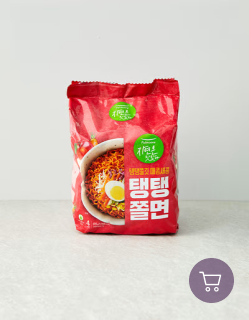
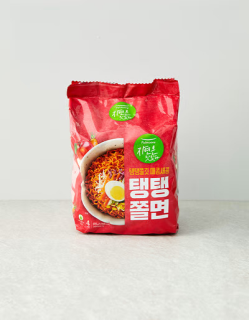
[style] list 페이지 마크업, 스타일 완성

Changed region(s): [[0.759, 0.7812, 0.9558, 0.9688]]

diff --git a/src/components/Accordion.jsx b/src/components/Accordion.jsx
@@ -78,28 +78,40 @@ export const Accordion = () => {
       </ul>
 
       <ul>
-        <div>
-          <h5 className={styles.filterTitle}>브랜드</h5>
+        <div className={styles.filterTitle}>
+          <h5>브랜드</h5>
           <button type="button">
             <img src={dropdown} />
           </button>
         </div>
       </ul>
 
-      <ul>
-        <h5 className={styles.filterTitle}>가격</h5>
+      <ul className={styles.filterTitle}>
+        <h5>가격</h5>
+        <button type="button">
+          <img src={dropdown} />
+        </button>
       </ul>
 
-      <ul>
-        <h5 className={styles.filterTitle}>혜택</h5>
+      <ul className={styles.filterTitle}>
+        <h5>혜택</h5>
+        <button type="button">
+          <img src={dropdown} />
+        </button>
       </ul>
 
-      <ul>
-        <h5 className={styles.filterTitle}>유형</h5>
+      <ul className={styles.filterTitle}>
+        <h5>유형</h5>
+        <button type="button">
+          <img src={dropdown} />
+        </button>
       </ul>
 
-      <ul>
-        <h5 className={styles.filterTitle}>특정상품 제외</h5>
+      <ul className={styles.filterTitle}>
+        <h5>특정상품 제외</h5>
+        <button type="button">
+          <img src={dropdown} />
+        </button>
       </ul>
     </nav>
   );

diff --git a/src/pages/ProductList.jsx b/src/pages/ProductList.jsx
@@ -14,7 +14,13 @@ const ProductList = () => {
     <div className={styles.listWrapper}>
       <h2 style={{ fontSize: '22px', fontWeight: 600 }}>베스트</h2>
 
-      <div style={{ display: 'flex', marginTop: '5%' }}>
+      <div
+        style={{
+          display: 'flex',
+          marginTop: '5%',
+          justifyContent: 'space-between',
+        }}
+      >
         <section>
           <Accordion />
         </section>
@@ -24,9 +30,19 @@ const ProductList = () => {
             style={{
               display: 'flex',
               justifyContent: 'space-between',
+              alignItems: 'flex-start',
               flexWrap: 'wrap',
+              height: 'auto',
             }}
           >
+            <Thumbnail />
+            <Thumbnail />
+            <Thumbnail />
+            <Thumbnail />
+            <Thumbnail />
+            <Thumbnail />
+            <Thumbnail />
+            <Thumbnail />
             <Thumbnail />
             <Thumbnail />
             <Thumbnail />

diff --git a/src/styles/components/List/thumbnail.module.scss b/src/styles/components/List/thumbnail.module.scss
@@ -1,9 +1,6 @@
 .thumbnailWrapper {
-  display: flex;
-  flex-direction: column;
-  justify-content: space-between;
   min-width: 250px;
-  margin-bottom: 78px;
+  padding-bottom: 78px;
 
   & > p {
     font-size: $font-size-small;
@@ -32,10 +29,39 @@
   }
 }
 
+.thumbnailVisual {
+  width: 250px;
+  height: 320px;
+  position: relative;
+  overflow: hidden;
+}
+
+.thumbnailImg:hover {
+  width: 100%;
+  box-sizing: border-box;
+  inset: 0px;
+  object-fit: cover;
+  transform: scale(1.02);
+  transition: all 0.3s ease-in-out 0s;
+}
+
+.cartButton {
+  position: absolute;
+  z-index: 50;
+  bottom: 17px;
+  right: 15px;
+  width: 45px;
+  height: 45px;
+  background: #2a0038;
+  opacity: 0.5;
+  border-radius: 50%;
+}
+
 .badgeWrapper {
   display: flex;
   justify-content: flex-start;
-  &:first-child {
-    margin-right: 10px;
-  }
+}
+
+.badgeWrapper :first-child {
+  margin-right: 10px;
 }

diff --git a/src/components/Thumbnail.jsx b/src/components/Thumbnail.jsx
@@ -3,6 +3,9 @@ import zzol from '@/assets/zzol.png';
 import Badge from './Badge';
 import styles from '@/styles/components/List/thumbnail.module.scss';
 
+// img
+import cart from '@/assets/button-cart.svg';
+
 export const Thumbnail = ({ productName, price, productDesc }) => {
   const badgeInfo = {
     karlyOnly: {
@@ -17,7 +20,12 @@ export const Thumbnail = ({ productName, price, productDesc }) => {
 
   return (
     <div className={styles.thumbnailWrapper}>
-      <img src={zzol} width="250" />
+      <div className={styles.thumbnailVisual}>
+        <img className={styles.thumbnailImg} alt="상품명" src={zzol} />
+        <button className={styles.cartButton} type="button">
+          <img src={cart} />
+        </button>
+      </div>
       <p className={styles.starDelivery}>샛별배송</p>
       <h4>[풀무원] 탱탱쫄면 (4개입)</h4>
       <span>4,800원</span>
